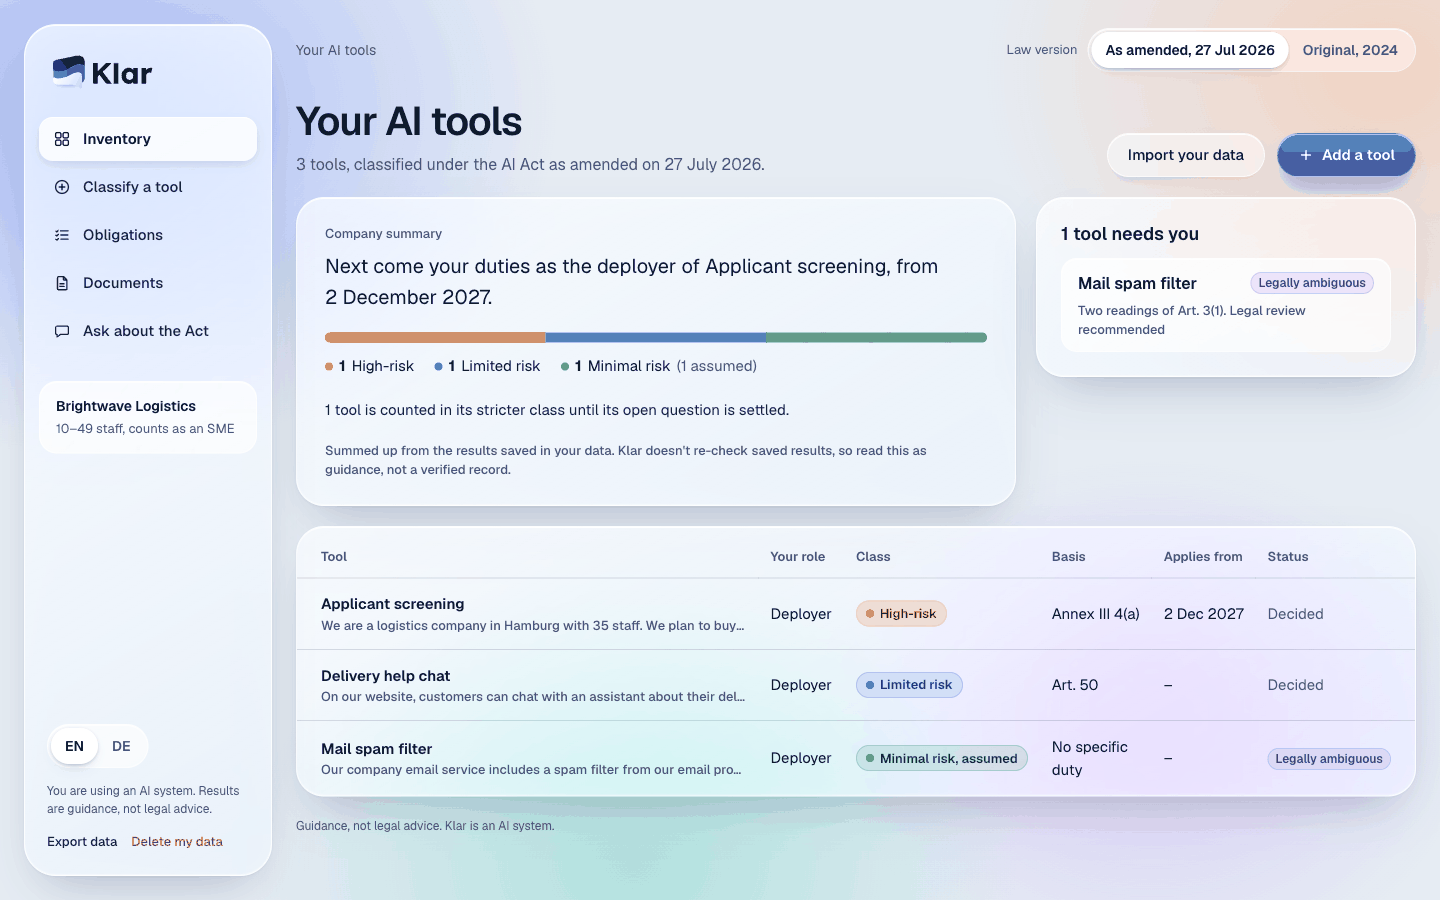
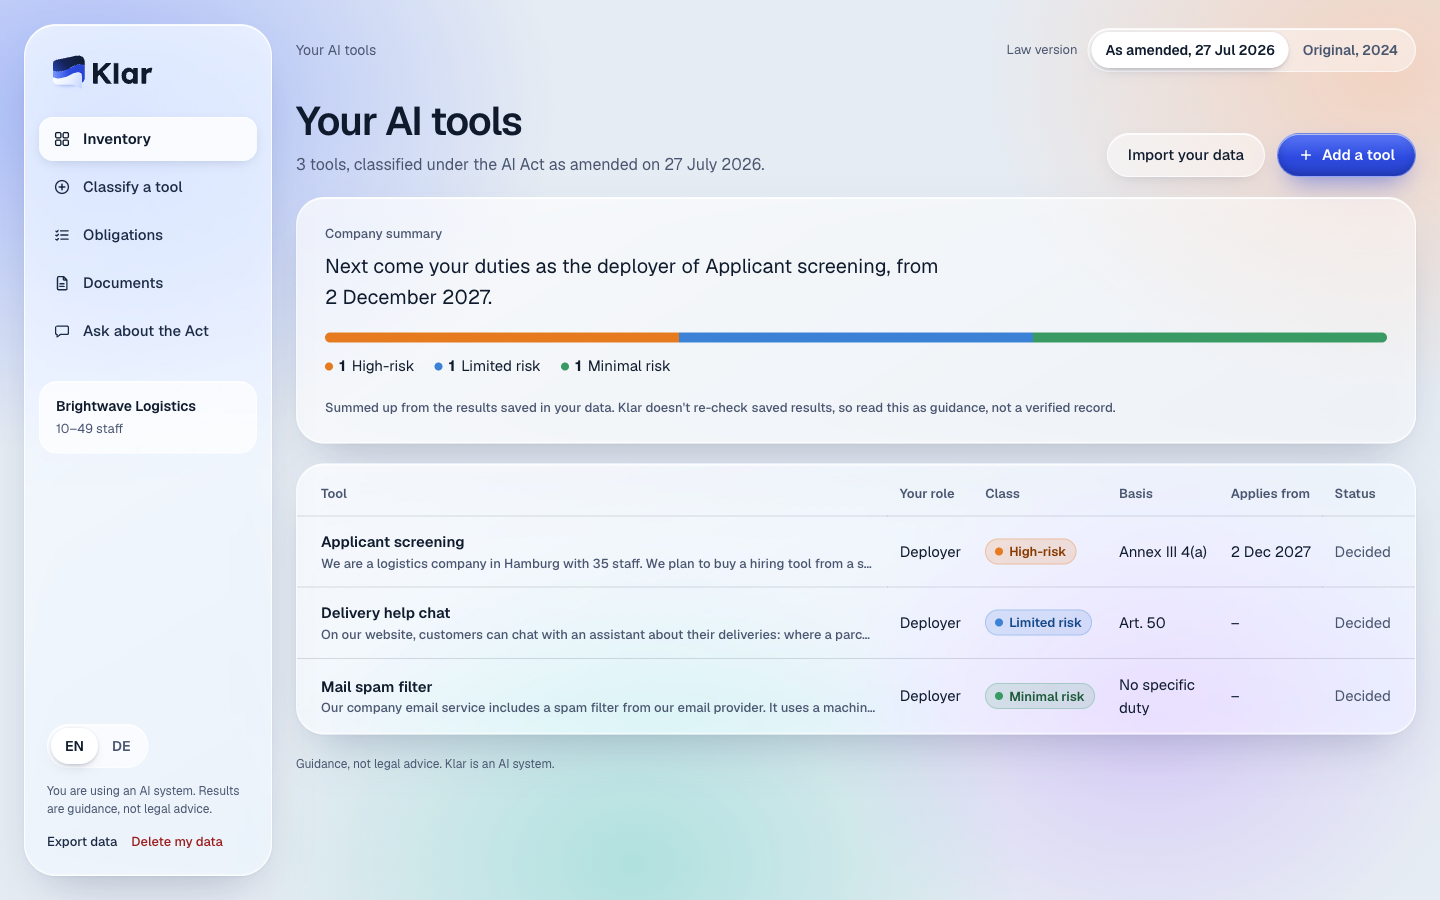
docs(showcase): retake screenshots in full colour
The earlier PNGs were reduced to a 256-colour palette, which turned small
accent colours (the risk dots) grey and banded the gradients. Retaken from
the running app at the same sizes, unquantized. The spam filter now comes
out minimal risk, decided, so the README caption drops the ambiguity note.

diff --git a/README.md b/README.md
@@ -23,7 +23,7 @@ false-low-risk rate 0.0% (0/56) (run 1, the figures the website shows; [details]
 
 Screens from the app (2026-10-15), for three made-up tools of a made-up company: a CV-screening tool
 (high-risk, Annex III 4(a)), a customer-service chat assistant (limited risk, Art. 50) and a mail spam filter
-(minimal risk, with "is it an AI system?" left legally ambiguous). Right: the chat assistant's result on a phone.
+(minimal risk). Right: the chat assistant's result on a phone.
 <br clear="right">
 
 ## What it does, and what it is not
